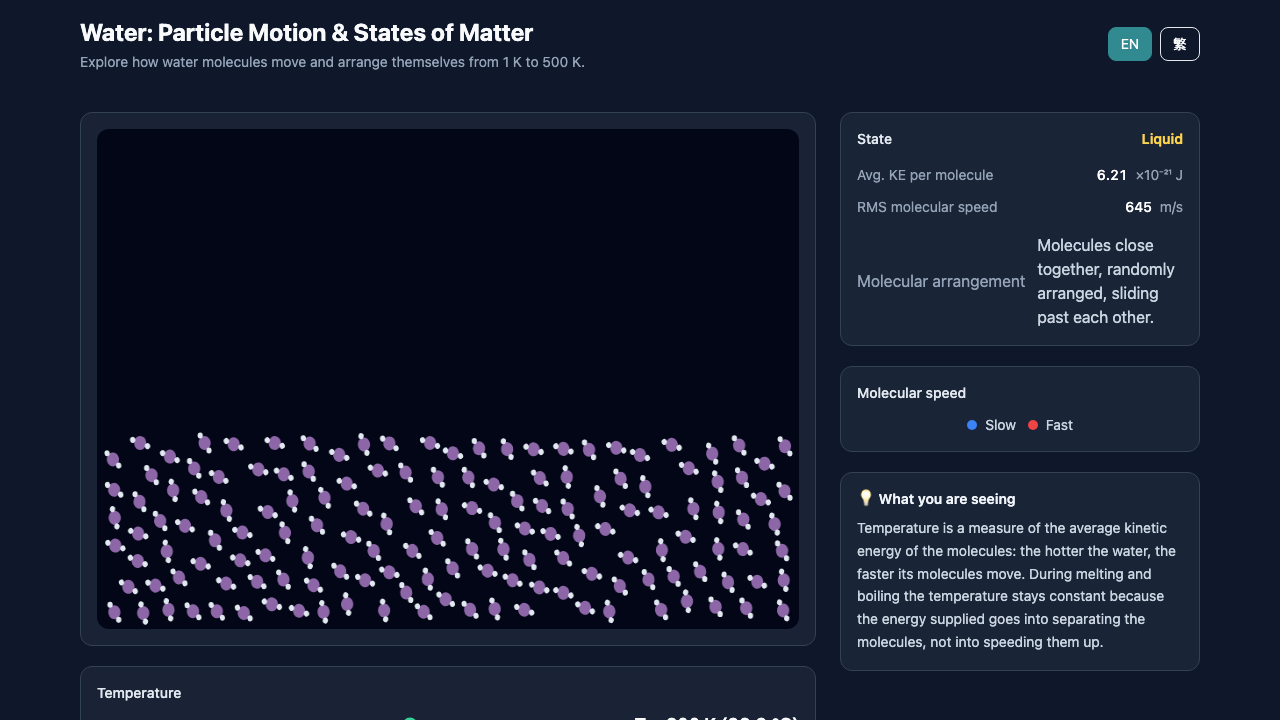
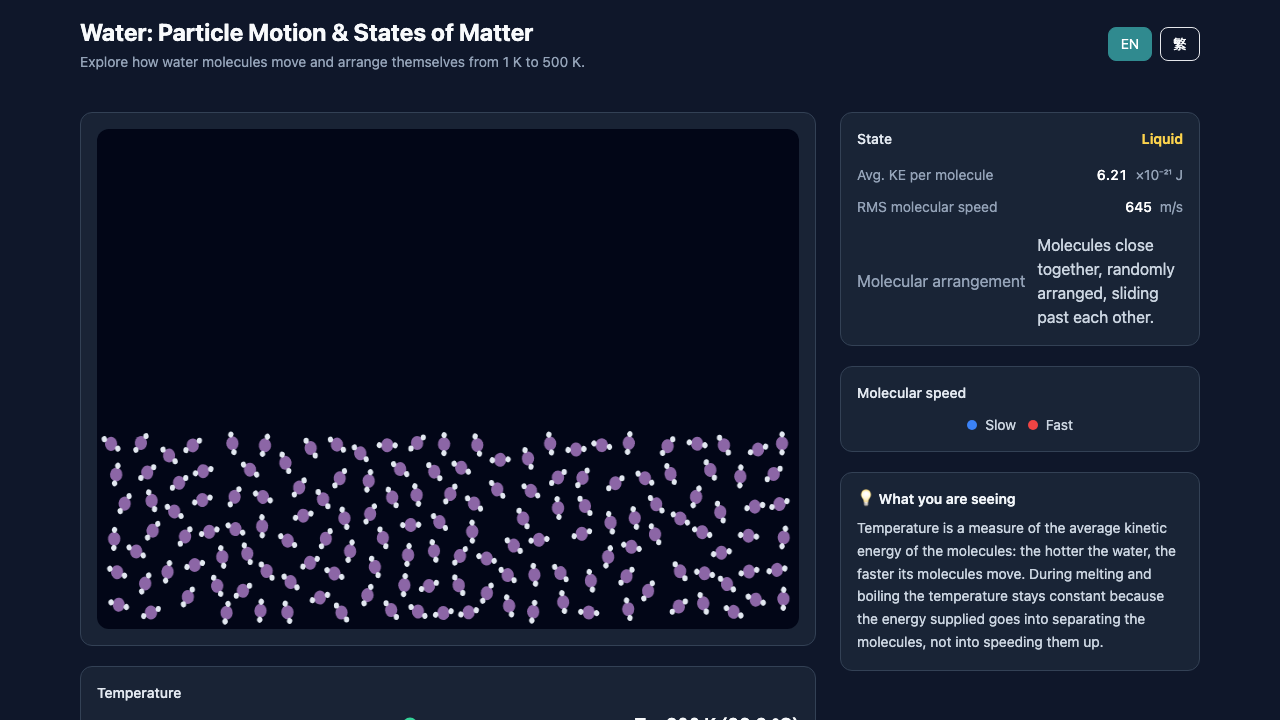
refactor: velocity-based physics for water-states (spring-Langevin crystal, unified integrator, gliding transitions)

Changed region(s): [[0.0625, 0.5806, 0.625, 0.8861]]

diff --git a/simulations/physics/heat-and-gases/water-states.html b/simulations/physics/heat-and-gases/water-states.html
@@ -266,7 +266,7 @@
 
         let simTempK = 300;          // displayed/animated temperature (lerps toward targetTempK)
         let phase = 'liquid';        // current phase: 'solid' | 'liquid' | 'gas'
-        let transition = null;       // active cross-phase morph: { from, to, t, dur, label, fromPos, toPos }
+        let transition = null;       // active cross-phase morph: { from, to, t, dur, label }
         let paused = false;
         let molecules = [];
 
@@ -281,13 +281,16 @@
         let lattice = [];
         function buildLattice() {
             lattice = [];
-            const spacing = 44, dy = spacing * 0.87;
+            // spacing 52 => hexagonal interstitial holes have radius 52/sqrt(3) ~ 30 px,
+            // which is >= MIN_DIST (28) so no molecule can ever be squeezed permanently
+            // between three neighbours (lattice jamming). 10 x 15 = 150 sites.
+            const spacing = 52, dy = spacing * 0.87;
             const rows = 10, cols = 15;
             const y0 = CH - BOUND - (rows - 1) * dy;
             for (let r = 0; r < rows; r++) {
                 const offset = (r % 2) * spacing / 2;
                 for (let c = 0; c < cols; c++) {
-                    lattice.push({ x: 40 + offset + c * spacing, y: y0 + r * dy });
+                    lattice.push({ x: 28 + offset + c * spacing, y: y0 + r * dy });
                 }
             }
         }
@@ -295,105 +298,115 @@
             return BASE_SPEED * Math.sqrt(k / 300);
         }
 
+        // Approximately Gaussian noise (sum of uniforms), mean 0, spread ~±0.87
+        function gauss() {
+            return Math.random() + Math.random() + Math.random() - 1.5;
+        }
+
         function initMolecules() {
             molecules = [];
             for (let i = 0; i < N_MOLECULES; i++) {
+                const a = Math.random() * Math.PI * 2;
+                const speed = thermalSpeed(simTempK) * (0.8 + Math.random() * 0.4);
                 molecules.push({
                     x: BOUND + Math.random() * (CW - 2 * BOUND),
                     y: POOL_TOP + Math.random() * (CH - BOUND - POOL_TOP),
-                    dir: Math.random() * Math.PI * 2,
+                    vx: Math.cos(a) * speed,      // real velocity (px/s), thermalized each frame
+                    vy: Math.sin(a) * speed,
                     rot: Math.random() * Math.PI * 2,
                     spin: Math.random() < 0.5 ? -1 : 1,
-                    speedF: 0.8 + Math.random() * 0.4,   // tiny ±20% variety
-                    phaseX: 0,
-                    phaseY: 0,
-                    ang: Math.random() * Math.PI * 2
+                    speedF: 0.8 + Math.random() * 0.4,   // ±20% speed variety
+                    // solid-phase wobble oscillator
+                    site: i                              // lattice site owned in solid phase
                 });
             }
         }
 
-        function moleculeSpeed(m) {
-            return thermalSpeed(simTempK) * m.speedF;
+        // One unified integrator for every phase and transition: optional lattice spring
+        // (stiffness kS), thermal Langevin noise (q), fluid thermostat (speed relax toward
+        // thermal value), random steering, temporary gravity, moving fluid surface (top).
+        // A stable phase is just one parameter set; a transition is a ramp between two sets.
+        function stepMolecules(dt, ph, opts) {
+            opts = opts || {};
+            const top = opts.top !== undefined ? opts.top : (ph === 'liquid' ? POOL_TOP : BOUND);
+            const vT = thermalSpeed(simTempK);
+            const kS = opts.springK !== undefined ? opts.springK : (ph === 'solid' ? 30 : 0);
+            const qS = opts.springQ !== undefined ? opts.springQ
+                     : (ph === 'solid' ? 82 * Math.sqrt(simTempK / 300) : 0);
+            const thermo = opts.thermo !== undefined ? opts.thermo : (ph === 'solid' ? 0 : 3);
+            const steer = opts.steer !== undefined ? opts.steer : (ph === 'liquid' ? 2.5 : 0.6);
+            const gam = 3.5;                       // spring damping, 1/s
+            const sqdt = Math.sqrt(dt);
+            for (let i = 0; i < molecules.length; i++) {
+                const m = molecules[i];
+                if (kS > 0 || qS > 0) {            // lattice spring + vibrational noise
+                    const s = lattice[m.site];
+                    m.vx += ((s.x - m.x) * kS - gam * m.vx) * dt + qS * sqdt * gauss();
+                    m.vy += ((s.y - m.y) * kS - gam * m.vy) * dt + qS * sqdt * gauss();
+                    m.rot += 0.6 * qS * sqdt * gauss() * dt;
+                }
+                if (thermo > 0) {                  // fluid thermostat: relax |v| to thermal
+                    const v = Math.hypot(m.vx, m.vy);
+                    const target = vT * m.speedF;
+                    if (v > 0.0001) {
+                        const f = 1 + (target - v) / v * Math.min(1, thermo * dt);
+                        m.vx *= f; m.vy *= f;
+                    } else {
+                        const a = Math.random() * Math.PI * 2;
+                        m.vx = Math.cos(a) * target; m.vy = Math.sin(a) * target;
+                    }
+                }
+                if (steer > 0) {                   // random steering of the velocity
+                    const da = (Math.random() - 0.5) * steer * dt;
+                    const c = Math.cos(da), sn = Math.sin(da);
+                    const nvx = m.vx * c - m.vy * sn;
+                    m.vy = m.vx * sn + m.vy * c;
+                    m.vx = nvx;
+                }
+                if (opts.gravity) m.vy += opts.gravity * dt;
+                if (opts.vcap) {                   // speed cap: gentle crystal assembly
+                    const v2 = Math.hypot(m.vx, m.vy);
+                    if (v2 > opts.vcap) { const f = opts.vcap / v2; m.vx *= f; m.vy *= f; }
+                }
+                m.x += m.vx * dt;
+                m.y += m.vy * dt;
+                m.rot += BASE_ROT * Math.sqrt(simTempK / 300) * m.spin * dt * (kS > 15 ? 0.3 : 1);
+            }
+            collide();
+            applyBounds(top);
         }
 
-        function stepMolecules(dt, phase) {
-            const v = thermalSpeed(simTempK);
-            if (phase === 'solid') {
-                for (let i = 0; i < molecules.length; i++) {
-                    const m = molecules[i];
-                    const s = lattice[i];
-                    const A = 1.5 + 3.5 * Math.sqrt(simTempK / 300);
-                    m.ang += (3 + 6 * Math.sqrt(simTempK / 300)) * dt;
-                    m.x = s.x + A * Math.sin(m.ang);
-                    m.y = s.y + A * Math.cos(m.ang * 0.8);
-                    m.rot = Math.sin(m.ang * 0.5) * 0.3;
-                }
-                return;
-            }
-
-            if (phase === 'liquid') {
-                for (let i = 0; i < molecules.length; i++) {
-                    const m = molecules[i];
-                    m.x += Math.cos(m.dir) * v * m.speedF * dt;
-                    m.y += Math.sin(m.dir) * v * m.speedF * dt;
-                    m.rot += BASE_ROT * Math.sqrt(simTempK / 300) * m.spin * dt;
-
-                    // cumulative random-walk jitter of the heading direction
-                    m.dir += (Math.random() - 0.5) * 2.5 * dt;
-                }
-            } else {
-                for (let i = 0; i < molecules.length; i++) {
-                    const m = molecules[i];
-                    m.x += Math.cos(m.dir) * v * m.speedF * dt;
-                    m.y += Math.sin(m.dir) * v * m.speedF * dt;
-                    m.rot += BASE_ROT * Math.sqrt(simTempK / 300) * m.spin * dt;
-                }
-            }
-
+        // Equal-mass elastic collisions: exchange normal velocity components, then push apart.
+        function collide() {
             for (let i = 0; i < molecules.length; i++) {
                 for (let j = i + 1; j < molecules.length; j++) {
                     const a = molecules[i], b = molecules[j];
-                    let dx = b.x - a.x, dy = b.y - a.y;
-                    let dist = Math.sqrt(dx * dx + dy * dy);
+                    const dx = b.x - a.x, dy = b.y - a.y;
+                    const dist = Math.sqrt(dx * dx + dy * dy);
                     if (!(dist > 0) || dist >= MIN_DIST) continue;
-
-                    // Equal-mass elastic collision -> exchange normal velocity components (approaching only).
                     const nx = dx / dist, ny = dy / dist;
-                    const vax = Math.cos(a.dir), vay = Math.sin(a.dir);
-                    const vbx = Math.cos(b.dir), vby = Math.sin(b.dir);
-                    const van = vax * nx + vay * ny;
-                    const vbn = vbx * nx + vby * ny;
-                    if (vbn - van < 0) { // approaching
-                        a.dir = Math.atan2(vay + (vbn - van) * ny, vax + (vbn - van) * nx);
-                        b.dir = Math.atan2(vby + (van - vbn) * ny, vbx + (van - vbn) * nx);
+                    const dvn = (b.vx - a.vx) * nx + (b.vy - a.vy) * ny;
+                    if (dvn < 0) {  // approaching: true elastic exchange
+                        a.vx += dvn * nx; a.vy += dvn * ny;
+                        b.vx -= dvn * nx; b.vy -= dvn * ny;
                     }
-
-                    const overlap = MIN_DIST - dist;
-                    a.x -= nx * overlap / 2;
-                    a.y -= ny * overlap / 2;
-                    b.x += nx * overlap / 2;
-                    b.y += ny * overlap / 2;
+                    // Cap per-frame separation so pile-ups (e.g. the last molecules
+                    // squeezing into the finished crystal) relax smoothly, no popping.
+                    const ov = Math.min((MIN_DIST - dist) / 2, 1.2);
+                    a.x -= nx * ov; a.y -= ny * ov;
+                    b.x += nx * ov; b.y += ny * ov;
                 }
             }
-
-            // Wall clamps run AFTER collision so the wall is the final constraint each frame.
-            // (Collision can push molecules past a freshly-set wall; re-clamping here prevents
-            //  slow drift out of the pool for liquid.)
-            applyWallClamps(phase);
         }
 
-        function applyWallClamps(phase) {
+        // Hard walls with a parameterized ceiling `top` (used by moving-boundary transitions).
+        function applyBounds(top) {
             for (let i = 0; i < molecules.length; i++) {
                 const m = molecules[i];
-                if (m.x < BOUND) { m.x = BOUND; m.dir = Math.PI - m.dir; }
-                else if (m.x > CW - BOUND) { m.x = CW - BOUND; m.dir = Math.PI - m.dir; }
-                if (phase === 'liquid') {
-                    if (m.y < POOL_TOP) { m.y = POOL_TOP; m.dir = -m.dir; }
-                    else if (m.y > CH - BOUND) { m.y = CH - BOUND; m.dir = -m.dir; }
-                } else {
-                    if (m.y < BOUND) { m.y = BOUND; m.dir = -m.dir; }
-                    else if (m.y > CH - BOUND) { m.y = CH - BOUND; m.dir = -m.dir; }
-                }
+                if (m.x < BOUND) { m.x = BOUND; m.vx = Math.abs(m.vx); }
+                else if (m.x > CW - BOUND) { m.x = CW - BOUND; m.vx = -Math.abs(m.vx); }
+                if (m.y < top) { m.y = top; m.vy = Math.abs(m.vy); }
+                else if (m.y > CH - BOUND) { m.y = CH - BOUND; m.vy = -Math.abs(m.vy); }
             }
         }
 
@@ -438,7 +451,6 @@
         }
 
         function colorize(m) {
-            const sp = moleculeSpeed(m);
             const u = Math.pow(Math.max(0, Math.min(1, (simTempK - 1) / 499)), 1.56);
             const slow = [0x3b, 0x82, 0xf6];
             const fast = [0xef, 0x44, 0x44];
@@ -494,32 +506,70 @@
         }
 
         function startTransition(from, to) {
-            const fromPos = molecules.map(m => ({ x: m.x, y: m.y }));
-            let toPos;
+            transition = {
+                from: from, to: to, t: 0,
+                dur: (from === 'solid' || to === 'solid') ? 2.4 : 1.6,
+                label: labelFor(from, to)
+            };
             if (to === 'solid') {
-                toPos = lattice.map(s => ({ x: s.x, y: s.y }));
-            } else if (to === 'gas') {
-                toPos = molecules.map(() => ({
-                    x: BOUND + Math.random() * (CW - 2 * BOUND),
-                    y: BOUND + Math.random() * (CH - 2 * BOUND)
-                }));
-            } else {
-                toPos = molecules.map(() => ({
-                    x: BOUND + Math.random() * (CW - 2 * BOUND),
-                    y: POOL_TOP + Math.random() * (CH - BOUND - POOL_TOP)
-                }));
+                // Each molecule claims its NEAREST free lattice site (greedy global pairing:
+                // sort all molecule-site distances ascending, assign when both still free).
+                const pairs = [];
+                for (let i = 0; i < molecules.length; i++) {
+                    for (let j = 0; j < lattice.length; j++) {
+                        const dx = molecules[i].x - lattice[j].x;
+                        const dy = molecules[i].y - lattice[j].y;
+                        pairs.push({ i: i, j: j, d: dx * dx + dy * dy });
+                    }
+                }
+                pairs.sort(function (a, b) { return a.d - b.d; });
+                const toSite = new Array(molecules.length).fill(-1);
+                const taken = new Array(lattice.length).fill(false);
+                for (const pr of pairs) {
+                    if (toSite[pr.i] < 0 && !taken[pr.j]) { toSite[pr.i] = pr.j; taken[pr.j] = true; }
+                }
+                for (let i = 0; i < molecules.length; i++) {
+                    if (toSite[i] >= 0) molecules[i].site = toSite[i];
+                }
             }
-            const label = labelFor(from, to);
-            transition = { from: from, to: to, t: 0, dur: 1.6, label: label, fromPos: fromPos, toPos: toPos };
         }
 
         function stepTransition(dt) {
-            const e = smoothstep(transition.t / transition.dur);
-            for (let i = 0; i < molecules.length; i++) {
-                const m = molecules[i];
-                m.rot += m.spin * 0.8 * dt;
-                m.x = lerp(transition.fromPos[i].x, transition.toPos[i].x, e);
-                m.y = lerp(transition.fromPos[i].y, transition.toPos[i].y, e);
+            const tr = transition;
+            const e = smoothstep(tr.t / tr.dur);
+            const qS = 82 * Math.sqrt(simTempK / 300);
+            if (tr.to === 'solid') {
+                // Freezing: the lattice grows stiffer around each molecule's chosen site
+                // while the fluid thermostat fades out. (top=BOUND: no surface clamping
+                // while the crystal assembles.)
+                stepMolecules(dt, phase, {
+                    springK: 30 * e, springQ: qS, top: BOUND, vcap: 150,
+                    thermo: 3 * (1 - e), steer: 2.5 * (1 - e)
+                });
+            } else if (tr.from === 'solid') {
+                // Melting: the lattice softens and fades, the fluid thermostat takes over,
+                // and a fading gravity settles the melt downward. The surface stays open
+                // (no mid-air clamping) and only descends to POOL_TOP over the last 40%
+                // of the ramp, so late-melting molecules ride it down instead of popping.
+                stepMolecules(dt, phase, {
+                    springK: 30 * (1 - e), springQ: qS * (1 - e),
+                    top: e < 0.6 ? BOUND : lerp(BOUND, POOL_TOP, (e - 0.6) / 0.4),
+                    thermo: 3 * e, steer: 2.5 * e, gravity: 130 * (1 - e * e)
+                });
+            } else if (tr.to === 'gas') {
+                // Boiling: the liquid surface rises until the box is all gas volume.
+                stepMolecules(dt, phase, {
+                    top: lerp(POOL_TOP, BOUND, e),
+                    steer: lerp(2.5, 0.6, e)
+                });
+            } else {
+                // Condensing: the surface falls and a gentle settling bias packs the gas
+                // back into the pool.
+                stepMolecules(dt, phase, {
+                    top: lerp(BOUND, POOL_TOP, e),
+                    steer: lerp(0.6, 2.5, e),
+                    gravity: 60 * e
+                });
             }
         }
 
